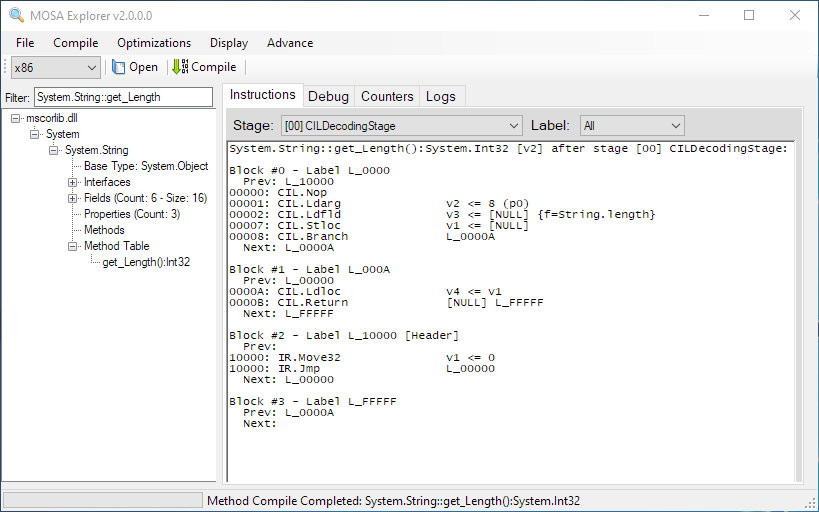
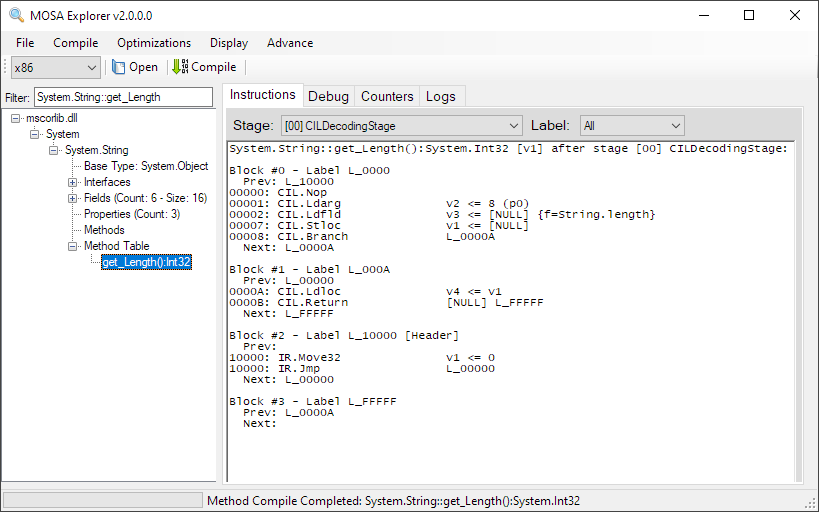
- Updated Docs

diff --git a/docs/searchindex.js b/docs/searchindex.js
@@ -1,1 +1,1 @@
-Search.setIndex({docnames:["authors","command-line-arguments","compiler-design","compiler-optimizations","faq","get-involved","getting-started","index","introduction","license","settings-options","tool-boot-image","tool-compiler","tool-debugger","tool-explorer","tool-launcher","tool-launcher-console","tools","unit-tests","usb-flash-drive-installation"],envversion:{"sphinx.domains.c":1,"sphinx.domains.changeset":1,"sphinx.domains.citation":1,"sphinx.domains.cpp":1,"sphinx.domains.index":1,"sphinx.domains.javascript":1,"sphinx.domains.math":2,"sphinx.domains.python":1,"sphinx.domains.rst":1,"sphinx.domains.std":1,"sphinx.ext.intersphinx":1,sphinx:56},filenames:["authors.rst","command-line-arguments.rst","compiler-design.rst","compiler-optimizations.rst","faq.rst","get-involved.rst","getting-started.rst","index.rst","introduction.rst","license.rst","settings-options.rst","tool-boot-image.rst","tool-compiler.rst","tool-debugger.rst","tool-explorer.rst","tool-launcher.rst","tool-launcher-console.rst","tools.rst","unit-tests.rst","usb-flash-drive-installation.rst"],objects:{},objnames:{},objtypes:{},terms:{"break":4,"byte":11,"case":[2,14],"catch":[7,8],"class":2,"default":[1,6,7,10],"final":[2,4,7,8,12],"function":11,"import":4,"long":[1,3],"new":[4,5,7,9,12],"null":16,"short":10,"static":[1,3,7,8,10],"true":[1,10],"try":[7,8],"while":[3,5,19],AND:9,ARE:9,BUT:9,FOR:9,For:1,NOT:9,One:2,SUCH:9,THE:9,The:[0,1,2,4,6,7,8,11,12,13,14,15,16,17,18],There:[2,5],These:[2,4,19],USE:9,Use:11,about:5,abov:9,accept:[5,9],access:5,achiev:5,add:0,addit:[3,14,15],address:10,advanc:1,advis:9,affect:3,after:[3,10],again:3,aggress:10,aggressivemaximum:10,aim:4,algorithm:4,all:[0,1,2,3,5,6,7,8,9,10,16,17,18,19],allianc:[4,9],alloc:[2,3,7,8],along:[4,17],also:[1,6,7,14],amount:10,ani:[4,5,6,7,9],anoth:[3,4,10],answer:4,anyon:4,appdata:16,appl:4,appli:3,applic:[2,4,7,8,11,12,13,14,15,16],apploc:10,appropri:2,apt:[6,7],area:5,argument:[3,14,15,16],aris:9,arm:[7,8],armv8a32:[1,10],around:2,asm:[1,4,10],asmfil:[1,10],assembl:4,assign:[3,7,8,10],autoexit:1,autolaunch:1,autom:[11,15,16],automat:[10,18],autostart:1,avail:[1,6,7,14,15,16],bare:[7,8],base:[1,3,4,5,7,8,10],baseaddress:[1,10],basic:[1,3,4,10],bat:[6,7,18],becaus:3,been:11,befor:[2,19],below:[1,6,7,19],between:2,bin:[1,10,11,12,16],binari:[1,2,4,6,7,9,10,12],bio:[1,10],bit:[1,3,7,8,10],bittrack:[1,10],block:[1,3,7,8,11,19],boch:[1,10],bodi:3,boot:[1,6,7,17,19],bootabl:11,bootblockfil:1,bootimag:19,bootload:[1,10],both:4,branch:3,breakpoint:[1,10],breakpointfil:[1,10],bring:[6,7],bsd:[4,5,7,9,12],bug:5,build:[2,4,11,15,16,19],busi:9,button:[6,7],c32:11,call:[3,10],can:[2,3,5,6,7,10,11,14,15,19],care:[5,19],categori:2,caus:[3,9],certain:14,cfg:11,chain:11,chang:19,channel:[4,5],chat:[5,7],cil:[2,4],click:[6,7],clone:[6,7],code:[0,1,2,3,5,6,7,8,9,10],codemaid:[6,7],com:[6,7],come:4,command:[6,7,11,19],common:[1,2,4,7,8,14,15,16],commun:[5,6,7],comparison:4,compat:[5,9],compil:[1,4,6,7,8,13,14,15,16,17],compilerdebug:[1,10],compilertimefil:1,compiletimefil:10,complet:[12,16,19],compon:[3,17],comput:3,condit:[3,7,8,9,10],connect:[1,5,7,19],consequenti:9,consist:[7,8],consol:[12,15],constant:[3,7,8,10],contain:11,contract:9,contribut:[0,4,9],contributor:[0,6,7,9],control:4,convers:[3,4],coolworld:[6,7],copi:19,copyright:[9,12],core:17,corelib:10,corlib:1,corrupt:19,cpu:16,creat:[2,4,6,7,10,11,19],createbootimag:11,credit:0,cross:[7,8],current:16,custom:10,customsect:10,damag:9,data:[9,19],dead:[3,7,8],debug:[1,13],debugfil:[1,10],debugg:[1,4,7,8,17],decod:2,defaultfold:10,definit:3,deleg:[7,8],demo:[6,7,11,16],depend:[4,19],deploi:19,depth:[1,10],deriv:9,describ:14,descript:[10,11,17],design:4,dest:1,destin:[1,10,11],determin:[3,19],devel:[6,7],develop:[4,5,7,8,17,19],devic:[7,8,19],devirtu:[1,10],direct:9,directli:[2,4],directori:[6,7,10,16,19],disassembl:10,disclaim:9,disconnect:19,disk:[6,7,11,19],diskblock:1,displai:[1,10,18],distribut:9,document:[5,9],doe:[3,19],done:19,doubl:[6,7],download:[5,19],drawf:[1,10],driver:[7,8],dure:[2,4,10],dwarf:10,each:[2,10,14],earli:[7,8],ecma:4,edit:[6,7],effort:[0,4],either:5,elaps:18,elf32:10,elf64:10,elf:10,elimin:[3,7,8],emit:[1,2,10],emitinlin:10,emul:[1,6,7,11,13],enabl:[3,10,16],endors:9,entir:[4,11,15,16],environ:5,equival:3,eras:19,evalu:3,even:9,event:9,everyon:0,exampl:[1,7,8,11],except:[5,7,8],exclud:10,exe:[11,12,14,15,16,19],execut:[2,3,7,8,10,14,15,18,19],exemplari:9,exit:[1,10],expans:[1,3,7,8],expens:3,experiment:10,explicit:[1,10],explicitli:10,explicitonli:[1,10],explor:[1,17],express:[2,3,9],extens:[1,6,7,10],fail:18,failur:[10,18],fall:3,fals:1,faster:2,fat12:[10,11],fat16:[10,11],fat32:[10,11],featur:[6,7],few:18,file:[0,2,10,12],filenam:[10,11],filesystem:[10,11],filter:[1,10],find:[3,19],first:[4,11],fit:9,fix:5,flexibl:4,fold:[3,7,8,10],folder:[1,10,19],follow:[1,6,7,8,9,11,18,19],form:[3,9,10],format:[1,10],forward:2,foster:4,found:19,framework:[2,4,7,8],free:[6,7],from:[2,5,9,14,15],fulli:[6,7],further:3,gather:10,gdb:1,gener:[2,7,8,10,16],get:19,git:[6,7],github:[6,7],gitter:[5,7],global:[3,7,8],gnu:[5,9,10],goal:5,good:9,graphic:16,greedi:[3,7,8],groundwork:4,group:2,grub0:[1,10],grub2:[1,10],grub:1,gui:[13,14,15],handl:[7,8,10],hard:19,harddiskx:19,hardwar:[7,8,19],has:[4,11],hash:[1,10],have:[0,3,4,5],hda:16,heard:5,height:[1,10],helloworld:[1,11,12,14,15],help:5,here:[10,14,15,16],high:[2,7,8],higher:2,highest:14,holder:9,host:[1,10],howev:9,http:[6,7],hunt:1,huntforcorlib:[1,10],hypervisor:[7,8],i386:16,ildasm:5,imag:[1,6,7,16,17,19],imagefil:[1,10],img:[1,10,11,16,19],immedi:[3,10],implement:[4,5],impli:9,improv:3,incident:9,includ:[4,6,7,8,9,10,11,15,16],incompar:5,inde:19,independ:4,indirect:9,inform:[1,10],inlin:[1,3,7,8,10],inlinedfil:[1,10],input:12,inspect:5,instal:[4,6,7],instanc:[6,7],instruct:[2,3,10,14,19],integr:4,intel:[7,8],intend:2,interact:[5,7],interest:[4,5],interfac:[4,16],interrupt:[1,9,10],interruptmethodnam:[1,10],introduc:4,invari:[1,7,8,10],invok:12,irc:[4,5],iso:[1,10],issu:5,its:[4,9,17],itself:[3,5],join:5,jump:3,just:19,keep:4,kei:19,kernel:[6,7,8],known:3,korlib:1,label:[1,11],languag:2,laptop:19,last:18,launch:[1,4,6,7,10,14,15,16],launchdebugg:[1,10],launcher:[1,6,7,11,17,19],launchgdb:10,ldlinux:11,least:2,less:3,level:[1,2,10,14],liabil:9,liabl:9,licens:[4,5,12],like:10,limit:9,line:[11,18],linear:2,link:[2,10,12,16,17],linker:[1,4],linux:4,list:[0,4,7,8,9,10,14,15,16,19],live:3,loader:[1,6,7],local:16,locat:3,log:14,longexpans:[1,10],look:5,loop:[1,7,8,10],loopinvariantcodemot:[1,10],loss:9,lost:19,lot:4,lower:2,lowest:14,machin:[2,6,7,10,13,15,16],made:14,mai:[1,3,9,10,19],mail:4,main:11,make:5,manag:[4,5,6,7,9],map:[1,10],mapfil:[1,10],mark:10,master:11,masterbootrecordfil:1,materi:9,maxim:3,maximum:[1,10],maximun:10,maxthread:10,mboot:11,mbr:[1,11],mean:5,memori:[1,10],merchant:9,messag:10,met:9,metal:[7,8],method:[1,3,10,12,14,16],methodscann:[1,10],microsoft:4,mind:4,minimum:[6,7],minut:18,mir:2,mistyp:19,mit:[5,9],mkisof:10,modern:18,modif:9,modifi:2,modular:[7,8],monitor:10,mono:[6,7],more:[2,3,5],mosa:[0,1,2,5,6,7,8,9,10,19],mosaboot:11,most:[5,7,14,15,16,19],motion:[1,7,8,10],move:2,multiboot:1,multipl:2,multithread:[1,7,8,10],must:9,name:[0,9,10,11],nasm:[1,4,10],nasmfil:[1,10],nativ:[3,7,8],ndisasm:10,nearli:[7,8],necessari:2,need:[5,6,7],neglig:9,neither:9,net:[2,7,8,12],netwid:4,newer:[6,7],next:[1,6,7],non:[7,8],none:[1,10],nor:9,note:[6,7,9],notic:9,now:19,number:[1,3,7,8,10,11,18],object:[2,7,8,10,12],ofast:1,off:1,omax:[1,16],onc:[2,4,15],one:[2,3,5,19],onli:[3,5,10],onon:1,onto:[3,19],opcod:2,open:[5,7,8,19],oper:[3,4,5,6,7,8,9,11,17],opportun:3,optim:[1,2,7,8,16],option:[1,3,7,8,11],order:4,organizaz:3,orient:[7,8],osiz:1,osx:4,other:[3,5,9,19],otherwis:[9,10],our:[0,4,5],out:9,output:[1,10,12],outputfil:[1,10],own:4,owner:9,packag:[6,7],page:17,paramet:[7,8,19],pars:12,part:4,particular:9,partit:[10,11],partitionx:19,pass:[1,3,18],patch:11,patent:5,path:[1,19],perform:3,permiss:9,permit:9,phil:16,physic:2,pipe:[1,10],pipenam:10,place:3,plan:5,platform:[1,2,3,7,8,10,12],pleas:[0,5],plug:[1,10],pluggabl:4,plugin:4,plugkorlib:[1,10],point:4,polici:5,port:[1,10],portabl:4,possibl:[3,9],postlinkhashfil:[1,10],potenti:5,pre:[6,7],prebuilt:10,prelinkhashfil:[1,10],preserv:3,previou:19,primari:[2,10],prior:[9,10],proce:19,process:[3,4,10,15,16],procur:9,product:9,profit:9,program:3,progress:[2,19],project:[0,5,6,7,8,9,12,16,17],promot:9,prompt:19,propag:[3,7,8,10],proprietari:5,provid:[2,4,5,7,8,9,17],publish:4,pull:0,purpos:9,qemu32:16,qemu:[1,6,7,8,10,11,13,16],qemubio:10,qemuimg:10,qualiti:[7,8],quick:[16,17],quickli:[6,7],rang:3,rather:3,raw:11,read:5,real:19,recogn:[0,3],recommend:[6,7],record:11,redistribut:9,reduct:[3,7,8,10],reflector:5,regard:5,regist:[2,3,7,8],relat:5,reloc:[1,10],remov:3,renam:11,reorder:[3,7,8],replac:[2,3],report:5,repositori:[0,6,7],repres:2,reproduc:9,request:0,requir:4,research:4,reserv:9,respresent:14,restrict:5,result:[3,18],retain:9,right:9,root:[6,7],run:4,runallunittestswithpaus:18,runtim:[3,5],same:3,sampl:[6,7],scanner:[1,10],sccp:[1,10],screen:18,screenshot:[6,7],script:[6,7,18],search:10,searchpath:[1,10],sec:[16,18],second:4,section:10,sectionnam:10,see:[14,15,16],seek:[7,8],select:[6,7,15,19],semant:3,seper:4,sequenc:2,serial:[1,10,16],serv:1,server:11,servic:9,set:[1,6,7,11,17],setup:12,sever:[2,11],shall:9,share:4,sharpo:4,shortcut:[1,3],shortsymbolnam:10,show:[10,18],signific:4,similar:[5,18],simplifi:3,simultan:3,singl:[2,3,7,8,10],site:3,skip:18,slightli:19,small:[7,8,10],softwar:[7,8,9,19],some:[2,5,10,14],sourc:[0,2,5,6,7,8,9,10],sourcefil:[1,10],spars:[3,7,8,10],special:9,specif:[1,2,4,9,10,14],specifi:[1,10],spill:3,ssa:[1,3,7,8,10],sse4:16,stabl:[7,8],stack:3,stage:[2,3,10,14],standard:4,start:[1,5,10,12,16],state:3,staticreloc:[1,10],statist:10,step:[2,19],storag:19,store:3,stream:[2,14],strength:[3,7,8,10],strict:9,strongli:[6,7],studio:[4,6,7],sub:19,subdirectori:18,subexpess:[7,8],submit:[0,9],substitut:[9,19],success:10,successfulli:18,sudo:[6,7],superced:11,support:[5,6,7,8,11],symbol:[1,10],sys:11,syslinux3:[1,10],syslinux6:[1,10],syslinux:[1,11],syslinux_v3:1,system:[2,4,5,6,7,8,9,10,11,16,17,19],take:[5,18],target:[2,7,8],tcpclient:[1,10],tcpserver:[1,10],team:[0,5,7],techniqu:3,temp:[16,19],temporari:10,temporaryfold:10,test:[10,19],testworld:16,tgiphil:16,than:3,them:3,theori:9,thi:[2,3,4,5,7,9,10,11,15,16,17],though:[4,5],thread:[1,10],through:3,thru:3,thu:3,time:[1,3,10,18],todo:[12,13],too:19,tool:[1,5,6,7,10,12,14,15,16,19],toolkit:4,toolset:4,tort:9,total:18,trace:10,tracelevel:10,track:3,tracker:[1,3,10],transform:[2,3,10,14],tree:2,twice:10,two:[1,2,3,4],twopass:[1,10],txt:0,type:[2,4,10,11,19],under:[7,9,12,19],understand:19,unix:11,unless:19,unlock:3,until:19,upon:10,usabl:4,use:[2,6,7,9],used:[1,2,9,10,11,12,13,14,15],user:16,uses:[2,4],using:[1,6,7,8,10,13,16,19],usual:[2,19],util:19,valu:[1,3,7,8,10],valuenumb:[1,10],vari:19,variou:[2,3,10,15],vbe:[1,10],vdi:[1,10,11],veri:4,version:[1,6,7,10,12,15,16],vga:10,vhd:[1,10,11],via:[6,7,12],video:[1,10],view:[0,14],virtual:[2,3,6,7,8,10,11,13,15,16,19],virtualbox:11,visual:[4,6,7,14],vmdk:[1,10,11],vmplayer:10,vmware:[1,10,11],vmwareplay:10,volum:[1,11],volumelabel:1,vritual:10,wai:[4,5,7,9],wait:19,want:[0,5],warranti:9,watch:[1,4,10],watchfil:[1,10],weight:3,were:[10,14],when:[3,10],where:3,whether:9,which:[3,4,5,6,7,11],why:14,width:[1,10],window:[4,19],wish:19,within:[7,8,10],without:[3,9],written:[9,19],wrong:19,x11:9,x64:[1,7,8,10],x86:[1,6,7,8,11,12,14,15,16],you:[0,4,5,6,7,19],your:[0,4,5,19],yourself:5,zip:[6,7]},titles:["Authors","Command Line Arguments","Compiler Design","Compiler Optimizations","Frequently Asked Questions (FAQs)","Get Involved","Getting Started","Introduction","Introduction","License","Settings Options","MOSA Boot Image Tool","MOSA Compiler","MOSA Debugger","MOSA Explorer","MOSA Launcher","MOSA Launcher Console","MOSA Tools","Unit Tests","USB Flash Drive Installation"],titleterms:{"import":10,Are:4,applic:10,argument:[1,11],ask:4,author:0,avail:4,boot:11,can:4,command:[1,12,13,14,15,16],common:10,compil:[2,3,10,12],consol:16,contribut:5,cosmo:4,current:[7,8],debug:10,debugg:[10,13],design:2,differ:4,discuss:7,doe:4,download:[6,7],drive:19,emul:10,exampl:16,explor:[10,14],faq:4,file:11,flash:19,format:11,frequent:4,gdb:10,get:[5,6,7],how:4,imag:[10,11],instal:19,intermedi:2,introduct:[7,8],involv:5,job:5,join:[4,7],kind:4,launcher:[10,15,16],licens:[7,9],line:[1,12,13,14,15,16],linker:10,linux:[6,7],locat:10,mac:[6,7],method:2,mosa:[4,11,12,13,14,15,16,17],multiboot:10,net:4,optim:[3,10],option:[10,12,13,14,15,16],pipelin:2,prerequisit:[6,7],process:5,project:4,question:4,represent:2,rule:5,run:[6,7],runtim:4,set:10,stand:4,start:[6,7],statu:[7,8],test:18,than:4,togeth:4,tool:[11,17],unit:18,usb:19,what:4,who:4,window:[6,7],work:4,x86:10}})
+Search.setIndex({docnames:["authors","command-line-arguments","compiler-design","compiler-optimizations","faq","get-involved","getting-started","index","introduction","license","settings-options","tool-boot-image","tool-compiler","tool-debugger","tool-explorer","tool-launcher","tool-launcher-console","tools","unit-tests","usb-flash-drive-installation"],envversion:{"sphinx.domains.c":1,"sphinx.domains.changeset":1,"sphinx.domains.citation":1,"sphinx.domains.cpp":1,"sphinx.domains.index":1,"sphinx.domains.javascript":1,"sphinx.domains.math":2,"sphinx.domains.python":1,"sphinx.domains.rst":1,"sphinx.domains.std":1,"sphinx.ext.intersphinx":1,sphinx:56},filenames:["authors.rst","command-line-arguments.rst","compiler-design.rst","compiler-optimizations.rst","faq.rst","get-involved.rst","getting-started.rst","index.rst","introduction.rst","license.rst","settings-options.rst","tool-boot-image.rst","tool-compiler.rst","tool-debugger.rst","tool-explorer.rst","tool-launcher.rst","tool-launcher-console.rst","tools.rst","unit-tests.rst","usb-flash-drive-installation.rst"],objects:{},objnames:{},objtypes:{},terms:{"break":4,"byte":11,"case":[2,14],"catch":[7,8],"class":2,"default":[1,6,7,10,14],"final":[2,4,7,8,12],"function":11,"import":4,"long":[1,3],"new":[4,5,7,9,12],"null":16,"short":10,"static":[1,3,7,8,10],"true":[1,10],"try":[7,8],"while":[3,5,19],AND:9,ARE:9,BUT:9,FOR:9,For:1,NOT:9,One:2,SUCH:9,THE:9,The:[0,1,2,4,6,7,8,11,12,13,14,15,16,17,18],There:[2,5],These:[2,4,19],USE:9,Use:11,about:5,abov:9,accept:[5,9],access:5,achiev:5,add:0,addit:[3,13,14,15],address:10,advanc:1,advis:9,affect:3,after:[3,10],again:3,aggress:10,aggressivemaximum:10,aim:4,algorithm:4,all:[0,1,2,3,5,6,7,8,9,10,16,17,18,19],allianc:[4,9],alloc:[2,3,7,8],along:[4,17],also:[1,6,7,14],amount:10,ani:[4,5,6,7,9],anoth:[3,4,10],answer:4,anyon:4,appdata:16,appl:4,appli:3,applic:[2,4,7,8,11,12,13,14,15,16],apploc:10,appropri:2,apt:[6,7],area:5,argument:[3,12,13,14,15,16],aris:9,arm:[7,8],armv8a32:[1,10],around:2,asm:[1,4,10],asmfil:[1,10],assembl:4,assign:[3,7,8,10],autoexit:1,autolaunch:1,autom:[11,15,16],automat:[10,18],autostart:[1,15,16],avail:[1,6,7,12,13,14,15,16],bare:[7,8],base:[1,3,4,5,7,8,10],baseaddress:[1,10],basic:[1,3,4,10],bat:[6,7,18],becaus:3,been:11,befor:[2,19],below:[1,6,7,19],between:2,bin:[1,10,11,12,16],binari:[1,2,4,6,7,9,10,12],bio:[1,10],bit:[1,3,7,8,10],bittrack:[1,10],block:[1,3,7,8,11,19],boch:[1,10],bodi:3,boot:[1,6,7,17,19],bootabl:11,bootblockfil:1,bootimag:19,bootload:[1,10],both:4,branch:3,breakpoint:[1,10],breakpointfil:[1,10],bring:[6,7],bsd:[4,5,7,9,12],bug:5,build:[2,4,11,15,16,19],busi:9,button:[6,7],c32:11,call:[3,10],can:[2,3,5,6,7,10,11,13,14,15,19],care:[5,19],categori:2,caus:[3,9],certain:14,cfg:11,chain:11,chang:19,channel:[4,5],chat:[5,7],cil:[2,4],click:[6,7],clone:[6,7],code:[0,1,2,3,5,6,7,8,9,10],codemaid:[6,7],com:[6,7],come:4,command:[6,7,11,19],common:[1,2,4,7,8,14,15,16],commun:[5,6,7],comparison:4,compat:[5,9],compil:[1,4,6,7,8,13,14,15,16,17],compilerdebug:[1,10],compilertimefil:1,compiletimefil:10,complet:[12,16,19],compon:[3,17],comput:3,condit:[3,7,8,9,10],connect:[1,5,7,19],consequenti:9,consist:[7,8],consol:[12,15],constant:[3,7,8,10],contain:11,contract:9,contribut:[0,4,9],contributor:[0,6,7,9],control:4,convers:[3,4],coolworld:[6,7],copi:19,copyright:[9,12],core:17,corelib:10,corlib:1,corrupt:19,cpu:16,creat:[2,4,6,7,10,11,19],createbootimag:11,credit:0,cross:[7,8],current:16,custom:10,customsect:10,damag:9,data:[9,19],dead:[3,7,8],debug:[1,13],debugfil:[1,10],debugg:[1,4,7,8,17],decod:2,defaultfold:10,definit:3,deleg:[7,8],demo:[6,7,11,16],depend:[4,19],deploi:19,depth:[1,10],deriv:9,describ:14,descript:[10,11,17],design:4,dest:1,destin:[1,10,11],determin:[3,19],devel:[6,7],develop:[4,5,7,8,17,19],devic:[7,8,19],devirtu:[1,10],direct:9,directli:[2,4],directori:[6,7,10,16,19],disassembl:10,disclaim:9,disconnect:19,disk:[6,7,11,19],diskblock:1,displai:[1,10,18],distribut:9,document:[5,9],doe:[3,15,16,19],done:19,doubl:[6,7],download:[5,19],drawf:[1,10],driver:[7,8],dure:[2,4,10],dwarf:10,each:[2,10,14],earli:[7,8],ecma:4,edit:[6,7],effort:[0,4],either:5,elaps:18,elf32:10,elf64:10,elf:10,elimin:[3,7,8],emit:[1,2,10],emitinlin:10,emul:[1,6,7,11,13],enabl:[3,10,16],endors:9,entir:[4,11,15,16],environ:5,equival:3,eras:19,evalu:3,even:9,event:9,everyon:0,exampl:[1,7,8,11],except:[5,7,8],exclud:10,exe:[11,12,13,14,15,16,19],execut:[2,3,7,8,10,13,14,15,18,19],exemplari:9,exit:[1,10],expans:[1,3,7,8],expens:3,experiment:10,explicit:[1,10],explicitli:10,explicitonli:[1,10],explor:[1,17],express:[2,3,9],extens:[1,6,7,10],fail:18,failur:[10,18],fall:3,fals:1,faster:2,fat12:[10,11],fat16:[10,11],fat32:[10,11],featur:[6,7],few:18,file:[0,2,10,12],filenam:[10,11],filesystem:[10,11],filter:[1,10,14],find:[3,19],first:[4,11],fit:9,fix:5,flexibl:4,fold:[3,7,8,10],folder:[1,10,19],follow:[1,6,7,8,9,11,18,19],form:[3,9,10],format:[1,10],forward:2,foster:4,found:19,framework:[2,4,7,8],free:[6,7],from:[2,5,9,13,14,15],fulli:[6,7],further:3,gather:10,gdb:1,gener:[2,7,8,10,16],get:19,get_length:14,git:[6,7],github:[6,7],gitter:[5,7],global:[3,7,8],gnu:[5,9,10],goal:5,good:9,graphic:16,greedi:[3,7,8],groundwork:4,group:2,grub0:[1,10],grub2:[1,10],grub:1,gui:[13,14,15],handl:[7,8,10],hard:19,harddiskx:19,hardwar:[7,8,19],has:[4,11],hash:[1,10],have:[0,3,4,5],hda:16,heard:5,height:[1,10],helloworld:[1,11,12,14,15],help:5,here:[10,14,15,16],high:[2,7,8],higher:2,highest:14,holder:9,host:[1,10],howev:9,http:[6,7],hunt:1,huntforcorlib:[1,10],hypervisor:[7,8],i386:16,ildasm:5,imag:[1,6,7,16,17,19],imagefil:[1,10],img:[1,10,11,16,19],immedi:[3,10,15,16],implement:[4,5],impli:9,improv:3,incident:9,includ:[4,6,7,8,9,10,11,15,16],incompar:5,inde:19,independ:4,indirect:9,inform:[1,10],inlin:[1,3,7,8,10],inlinedfil:[1,10],input:12,inspect:5,instal:[4,6,7],instanc:[6,7],instruct:[2,3,10,14,19],integr:4,intel:[7,8],intend:2,interact:[5,7],interest:[4,5],interfac:[4,16],interrupt:[1,9,10],interruptmethodnam:[1,10],introduc:4,invari:[1,7,8,10],invok:12,irc:[4,5],iso:[1,10],issu:5,its:[4,9,17],itself:[3,5],join:5,jump:3,just:19,keep:4,kei:19,kernel:[6,7,8],known:3,korlib:1,label:[1,11],languag:2,laptop:19,last:18,launch:[1,4,6,7,10,13,14,15,16],launchdebugg:[1,10],launcher:[1,6,7,11,13,17,19],launchgdb:10,ldlinux:11,least:2,less:3,level:[1,2,10,14],liabil:9,liabl:9,licens:[4,5,12],like:10,limit:9,line:[11,18],linear:2,link:[2,10,12,16,17],linker:[1,4],linux:4,list:[0,4,7,8,9,10,12,13,14,15,16,19],live:3,loader:[1,6,7],local:16,locat:3,log:14,longexpans:[1,10],look:5,loop:[1,7,8,10],loopinvariantcodemot:[1,10],loss:9,lost:19,lot:4,lower:2,lowest:14,machin:[2,6,7,10,13,15,16],made:14,mai:[1,3,9,10,19],mail:4,main:11,make:5,manag:[4,5,6,7,9],map:[1,10],mapfil:[1,10],mark:10,master:11,masterbootrecordfil:1,materi:9,maxim:3,maximum:[1,10],maximun:10,maxthread:10,mboot:11,mbr:[1,11],mean:5,memori:[1,10],merchant:9,messag:10,met:9,metal:[7,8],method:[1,3,10,12,14,16],methodscann:[1,10],microsoft:4,mind:4,minimum:[6,7],minut:18,mir:2,mistyp:19,mit:[5,9],mkisof:10,modern:18,modif:9,modifi:2,modular:[7,8],monitor:10,mono:[6,7],more:[2,3,5],mosa:[0,1,2,5,6,7,8,9,10,19],mosaboot:11,most:[5,7,14,15,16,19],motion:[1,7,8,10],move:2,multiboot:1,multipl:2,multithread:[1,7,8,10],must:9,name:[0,9,10,11,14],nasm:[1,4,10],nasmfil:[1,10],nativ:[3,7,8],ndisasm:10,nearli:[7,8],necessari:2,need:[5,6,7],neglig:9,neither:9,net:[2,7,8,12],netwid:4,newer:[6,7],next:[1,6,7],non:[7,8],none:[1,10],nor:9,note:[6,7,9],notic:9,now:19,number:[1,3,7,8,10,11,18],object:[2,7,8,10,12],ofast:1,off:[1,15,16],omax:[1,16],onc:[2,4,15],one:[2,3,5,19],onli:[3,5,10],onon:1,onto:[3,19],opcod:2,open:[5,7,8,19],oper:[3,4,5,6,7,8,9,11,17],opportun:3,optim:[1,2,7,8,16],option:[1,3,7,8,11],order:4,organizaz:3,orient:[7,8],osiz:1,osx:4,other:[3,5,9,19],otherwis:[9,10],our:[0,4,5],out:9,output:[1,10,12],outputfil:[1,10],own:4,owner:9,packag:[6,7],page:17,paramet:[7,8,19],pars:12,part:4,particular:9,partit:[10,11],partitionx:19,pass:[1,3,18],patch:11,patent:5,path:[1,19],perform:3,permiss:9,permit:9,phil:16,physic:2,pipe:[1,10],pipenam:10,place:3,plan:5,platform:[1,2,3,7,8,10,12],pleas:[0,5],plug:[1,10],pluggabl:4,plugin:4,plugkorlib:[1,10],point:4,polici:5,port:[1,10],portabl:4,possibl:[3,9],postlinkhashfil:[1,10],potenti:5,pre:[6,7],prebuilt:10,prelinkhashfil:[1,10],preserv:3,previou:19,primari:[2,10],prior:[9,10],proce:19,process:[3,4,10,15,16],procur:9,product:9,profit:9,program:3,progress:[2,19],project:[0,5,6,7,8,9,12,16,17],promot:9,prompt:19,propag:[3,7,8,10],proprietari:5,provid:[2,4,5,7,8,9,17],publish:4,pull:0,purpos:9,qemu32:16,qemu:[1,6,7,8,10,11,13,16],qemubio:10,qemuimg:10,qualiti:[7,8],quick:[16,17],quickli:[6,7],rang:3,rather:3,raw:11,read:5,real:19,recogn:[0,3],recommend:[6,7],record:11,redistribut:9,reduct:[3,7,8,10],reflector:5,regard:5,regist:[2,3,7,8],relat:5,reloc:[1,10],remov:3,renam:11,reorder:[3,7,8],replac:[2,3],report:5,repositori:[0,6,7],repres:2,reproduc:9,request:0,requir:4,research:4,reserv:9,respresent:14,restrict:5,result:[3,18],retain:9,right:9,root:[6,7],run:4,runallunittestswithpaus:18,runtim:[3,5],same:3,sampl:[6,7],scanner:[1,10],sccp:[1,10],screen:18,screenshot:[6,7],script:[6,7,18],search:10,searchpath:[1,10],sec:[16,18],second:4,section:10,sectionnam:10,see:[12,13,14,15,16],seek:[7,8],select:[6,7,15,19],semant:3,seper:4,sequenc:2,serial:[1,10,16],serv:1,server:11,servic:9,set:[1,6,7,11,17],setup:12,sever:[2,11],shall:9,share:4,sharpo:4,shortcut:[1,3],shortsymbolnam:10,show:[10,18],signific:4,similar:[5,18],simplifi:3,simultan:3,singl:[2,3,7,8,10],site:3,skip:18,slightli:19,small:[7,8,10],softwar:[7,8,9,19],some:[2,5,10,14],sourc:[0,2,5,6,7,8,9,10],sourcefil:[1,10],spars:[3,7,8,10],special:9,specif:[1,2,4,9,10,14],specifi:[1,10,14],spill:3,ssa:[1,3,7,8,10],sse4:16,stabl:[7,8],stack:3,stage:[2,3,10,14],standard:4,start:[1,5,10,12,15,16],state:3,staticreloc:[1,10],statist:10,step:[2,19],storag:19,store:3,stream:[2,14],strength:[3,7,8,10],strict:9,string:14,strongli:[6,7],studio:[4,6,7],sub:19,subdirectori:18,subexpess:[7,8],submit:[0,9],substitut:[9,19],success:10,successfulli:18,sudo:[6,7],superced:11,support:[5,6,7,8,11],symbol:[1,10],sys:11,syslinux3:[1,10],syslinux6:[1,10],syslinux:[1,11],syslinux_v3:1,system:[2,4,5,6,7,8,9,10,11,14,16,17,19],take:[5,18],target:[2,7,8],tcpclient:[1,10],tcpserver:[1,10],team:[0,5,7],techniqu:3,temp:[16,19],temporari:10,temporaryfold:10,test:[10,19],testworld:16,tgiphil:16,than:3,them:3,theori:9,thi:[2,3,4,5,7,9,10,11,15,16,17],though:[4,5],thread:[1,10],through:3,thru:3,thu:3,time:[1,3,10,18],too:19,tool:[1,5,6,7,10,12,13,14,15,16,19],toolkit:4,toolset:4,tort:9,total:18,trace:10,tracelevel:10,track:3,tracker:[1,3,10],transform:[2,3,10,14],tree:2,twice:10,two:[1,2,3,4],twopass:[1,10],txt:0,type:[2,4,10,11,19],under:[7,9,12,19],understand:19,unix:11,unless:19,unlock:3,until:19,upon:10,usabl:4,use:[2,6,7,9],used:[1,2,9,10,11,12,13,14,15],user:16,uses:[2,4],using:[1,6,7,8,10,13,16,19],usual:[2,19],util:19,valu:[1,3,7,8,10],valuenumb:[1,10],vari:19,variou:[2,3,10,15],vbe:[1,10],vdi:[1,10,11],veri:4,version:[1,6,7,10,12,15,16],vga:10,vhd:[1,10,11],via:[6,7,12],video:[1,10],view:[0,14],virtual:[2,3,6,7,8,10,11,13,15,16,19],virtualbox:11,visual:[4,6,7,14],vmdk:[1,10,11],vmplayer:10,vmware:[1,10,11],vmwareplay:10,volum:[1,11],volumelabel:1,vritual:10,wai:[4,5,7,9],wait:19,want:[0,5],warranti:9,watch:[1,4,10],watchfil:[1,10],weight:3,were:[10,14],when:[3,10,14],where:3,whether:9,which:[3,4,5,6,7,11],why:14,width:[1,10],window:[4,19],wish:19,within:[7,8,10],without:[3,9],written:[9,19],wrong:19,x11:9,x64:[1,7,8,10],x86:[1,6,7,8,11,12,13,14,15,16],you:[0,4,5,6,7,19],your:[0,4,5,19],yourself:5,zip:[6,7]},titles:["Authors","Command Line Arguments","Compiler Design","Compiler Optimizations","Frequently Asked Questions (FAQs)","Get Involved","Getting Started","Introduction","Introduction","License","Settings Options","MOSA Boot Image Tool","MOSA Compiler","MOSA Debugger","MOSA Explorer","MOSA Launcher","MOSA Launcher Console","MOSA Tools","Unit Tests","USB Flash Drive Installation"],titleterms:{"import":10,Are:4,applic:10,argument:[1,11],ask:4,author:0,avail:4,boot:11,can:4,command:[1,12,13,14,15,16],common:10,compil:[2,3,10,12],consol:16,contribut:5,cosmo:4,current:[7,8],debug:10,debugg:[10,13],design:2,differ:4,discuss:7,doe:4,download:[6,7],drive:19,emul:10,exampl:16,explor:[10,14],faq:4,file:11,flash:19,format:11,frequent:4,gdb:10,get:[5,6,7],how:4,imag:[10,11],instal:19,intermedi:2,introduct:[7,8],involv:5,job:5,join:[4,7],kind:4,launcher:[10,15,16],licens:[7,9],line:[1,12,13,14,15,16],linker:10,linux:[6,7],locat:10,mac:[6,7],method:2,mosa:[4,11,12,13,14,15,16,17],multiboot:10,net:4,optim:[3,10],option:[10,12,13,14,15,16],pipelin:2,prerequisit:[6,7],process:5,project:4,question:4,represent:2,rule:5,run:[6,7],runtim:4,set:10,stand:4,start:[6,7],statu:[7,8],test:18,than:4,togeth:4,tool:[11,17],unit:18,usb:19,what:4,who:4,window:[6,7],work:4,x86:10}})

diff --git a/docs/tool-launcher.html b/docs/tool-launcher.html
@@ -189,6 +189,7 @@
   <div class="section" id="mosa-launcher">
 <h1>MOSA Launcher<a class="headerlink" href="#mosa-launcher" title="Permalink to this headline">¶</a></h1>
 <p>The <strong>MOSA Launcher</strong> is GUI application used to select various compiler and build options. Once options are select, the tool automates the entire build process including launching of a virtual machine.</p>
+<img alt="_images/mosa-launcher.png" src="_images/mosa-launcher.png" />
 <div class="admonition tip">
 <p class="admonition-title">Tip</p>
 <p>See <a class="reference internal" href="tool-launcher-console.html"><span class="doc">MOSA Launch</span></a> for a console version of this application.</p>
@@ -200,7 +201,12 @@
 </div>
 <div class="section" id="command-line-options">
 <h2>Command Line Options<a class="headerlink" href="#command-line-options" title="Permalink to this headline">¶</a></h2>
-<p>See the <a class="reference internal" href="command-line-arguments.html"><span class="doc">command line arguments</span></a> for a list of available options. Here are the most common options available:</p>
+<p>See the <a class="reference internal" href="command-line-arguments.html"><span class="doc">command line arguments</span></a> for a list of available options.</p>
+<p>Here are the most common options available:</p>
+<dl class="simple">
+<dt><cite>-autostart-off</cite></dt><dd><p>Does not immediate start the compiler</p>
+</dd>
+</dl>
 </div>
 </div>
 

diff --git a/docs/tool-explorer.html b/docs/tool-explorer.html
@@ -192,12 +192,17 @@
 <img alt="_images/mosa-explorer.png" src="_images/mosa-explorer.png" />
 <p>The <strong>MOSA Explorer</strong> can be launched by executing <cite>Mosa.Tool.Explorer.exe</cite>.</p>
 <p>In addition, the tool can be launched from the command line with arguments:</p>
-<div class="highlight-text notranslate"><div class="highlight"><pre><span></span>Mosa.Tool.Explorer.exe Mosa.HelloWorld.x86.exe
+<div class="highlight-text notranslate"><div class="highlight"><pre><span></span>Mosa.Tool.Explorer.exe Mosa.HelloWorld.x86.exe -filter System.String::get_Length
 </pre></div>
 </div>
 <div class="section" id="command-line-options">
 <h2>Command Line Options<a class="headerlink" href="#command-line-options" title="Permalink to this headline">¶</a></h2>
-<p>See the <a class="reference internal" href="command-line-arguments.html"><span class="doc">command line arguments</span></a> for a list of available options. Here are the most common options available:</p>
+<p>See the <a class="reference internal" href="command-line-arguments.html"><span class="doc">command line arguments</span></a> for a list of available options.</p>
+<p>Here are the most common options available:</p>
+<dl class="simple">
+<dt><cite>-filter</cite></dt><dd><p>Specifies the default method filter name when Explorer is launched</p>
+</dd>
+</dl>
 </div>
 </div>
 

diff --git a/docs/tool-debugger.html b/docs/tool-debugger.html
@@ -189,9 +189,15 @@
   <div class="section" id="mosa-debugger">
 <h1>MOSA Debugger<a class="headerlink" href="#mosa-debugger" title="Permalink to this headline">¶</a></h1>
 <p>The <strong>MOSA Debugger</strong> is GUI application used to debug a MOSA compiled application using <a class="reference external" href="https://www.qemu.org">QEMU Virtual Machine Emulator</a>.</p>
+<img alt="_images/mosa-debugger.png" src="_images/mosa-debugger.png" />
+<p>The <strong>MOSA Debugger</strong> can be launched by executing <cite>Mosa.Tool.Debugger.exe</cite>.</p>
+<p>In addition, the tool can be launched from the command line with arguments:</p>
+<div class="highlight-text notranslate"><div class="highlight"><pre><span></span>Mosa.Tool.Launcher.exe Mosa.Debugger.x86.exe
+</pre></div>
+</div>
 <div class="section" id="command-line-options">
 <h2>Command Line Options<a class="headerlink" href="#command-line-options" title="Permalink to this headline">¶</a></h2>
-<p>[TODO]</p>
+<p>See the <a class="reference internal" href="command-line-arguments.html"><span class="doc">command line arguments</span></a> for a list of available options.</p>
 </div>
 </div>
 

diff --git a/docs/tool-launcher-console.html b/docs/tool-launcher-console.html
@@ -215,7 +215,12 @@ Arguments:  -L &quot;..\Tools\QEMU&quot; -cpu qemu32,+sse4.1 -serial null -hda &
 </div>
 <div class="section" id="command-line-options">
 <h2>Command Line Options<a class="headerlink" href="#command-line-options" title="Permalink to this headline">¶</a></h2>
-<p>See the <a class="reference internal" href="command-line-arguments.html"><span class="doc">command line arguments</span></a> for a list of available options. Here are the most common options available:</p>
+<p>See the <a class="reference internal" href="command-line-arguments.html"><span class="doc">command line arguments</span></a> for a list of available options.</p>
+<p>Here are the most common options available:</p>
+<dl class="simple">
+<dt><cite>-autostart-off</cite></dt><dd><p>Does not immediate start the compiler</p>
+</dd>
+</dl>
 </div>
 </div>
 

diff --git a/docs/tool-compiler.html b/docs/tool-compiler.html
@@ -219,7 +219,7 @@
 </div>
 <div class="section" id="command-line-options">
 <h2>Command Line Options<a class="headerlink" href="#command-line-options" title="Permalink to this headline">¶</a></h2>
-<p>[TODO]</p>
+<p>See the <a class="reference internal" href="command-line-arguments.html"><span class="doc">command line arguments</span></a> for a list of available options.</p>
 </div>
 </div>
 

diff --git a/Source/Mosa.Tool.Debugger/Views/SourceView.designer.cs b/Source/Mosa.Tool.Debugger/Views/SourceView.designer.cs
@@ -43,11 +43,10 @@ namespace Mosa.Tool.Debugger.Views
             | System.Windows.Forms.AnchorStyles.Left) 
             | System.Windows.Forms.AnchorStyles.Right)));
 			this.rtbSource.Font = new System.Drawing.Font("Consolas", 8.25F, System.Drawing.FontStyle.Regular, System.Drawing.GraphicsUnit.Point, ((byte)(0)));
-			this.rtbSource.Location = new System.Drawing.Point(-2, 67);
-			this.rtbSource.Margin = new System.Windows.Forms.Padding(8, 7, 8, 7);
+			this.rtbSource.Location = new System.Drawing.Point(-1, 30);
 			this.rtbSource.Name = "rtbSource";
 			this.rtbSource.ReadOnly = true;
-			this.rtbSource.Size = new System.Drawing.Size(1324, 432);
+			this.rtbSource.Size = new System.Drawing.Size(532, 235);
 			this.rtbSource.TabIndex = 0;
 			this.rtbSource.Text = "";
 			// 
@@ -55,20 +54,18 @@ namespace Mosa.Tool.Debugger.Views
 			// 
 			this.label1.AutoSize = true;
 			this.label1.Font = new System.Drawing.Font("Microsoft Sans Serif", 8.25F, System.Drawing.FontStyle.Bold, System.Drawing.GraphicsUnit.Point, ((byte)(0)));
-			this.label1.Location = new System.Drawing.Point(20, 20);
-			this.label1.Margin = new System.Windows.Forms.Padding(8, 0, 8, 0);
+			this.label1.Location = new System.Drawing.Point(8, 9);
 			this.label1.Name = "label1";
-			this.label1.Size = new System.Drawing.Size(107, 29);
+			this.label1.Size = new System.Drawing.Size(51, 13);
 			this.label1.TabIndex = 1;
 			this.label1.Text = "Source:";
 			// 
 			// lbSourceFilename
 			// 
 			this.lbSourceFilename.AutoSize = true;
-			this.lbSourceFilename.Location = new System.Drawing.Point(145, 20);
-			this.lbSourceFilename.Margin = new System.Windows.Forms.Padding(8, 0, 8, 0);
+			this.lbSourceFilename.Location = new System.Drawing.Point(58, 9);
 			this.lbSourceFilename.Name = "lbSourceFilename";
-			this.lbSourceFilename.Size = new System.Drawing.Size(171, 29);
+			this.lbSourceFilename.Size = new System.Drawing.Size(72, 13);
 			this.lbSourceFilename.TabIndex = 2;
 			this.lbSourceFilename.Text = "<Source File>";
 			// 
@@ -77,29 +74,27 @@ namespace Mosa.Tool.Debugger.Views
 			this.statusStrip1.ImageScalingSize = new System.Drawing.Size(36, 36);
 			this.statusStrip1.Items.AddRange(new System.Windows.Forms.ToolStripItem[] {
             this.toolStripStatusLabel1});
-			this.statusStrip1.Location = new System.Drawing.Point(0, 599);
+			this.statusStrip1.Location = new System.Drawing.Point(0, 268);
 			this.statusStrip1.Name = "statusStrip1";
-			this.statusStrip1.Padding = new System.Windows.Forms.Padding(2, 0, 35, 0);
-			this.statusStrip1.Size = new System.Drawing.Size(1332, 48);
+			this.statusStrip1.Size = new System.Drawing.Size(533, 22);
 			this.statusStrip1.TabIndex = 3;
 			this.statusStrip1.Text = "statusStrip1";
 			// 
 			// toolStripStatusLabel1
 			// 
 			this.toolStripStatusLabel1.Name = "toolStripStatusLabel1";
-			this.toolStripStatusLabel1.Size = new System.Drawing.Size(65, 37);
+			this.toolStripStatusLabel1.Size = new System.Drawing.Size(29, 17);
 			this.toolStripStatusLabel1.Text = "N/A";
 			// 
 			// SourceView
 			// 
-			this.AutoScaleDimensions = new System.Drawing.SizeF(15F, 29F);
+			this.AutoScaleDimensions = new System.Drawing.SizeF(6F, 13F);
 			this.AutoScaleMode = System.Windows.Forms.AutoScaleMode.Font;
-			this.ClientSize = new System.Drawing.Size(1332, 647);
+			this.ClientSize = new System.Drawing.Size(533, 290);
 			this.Controls.Add(this.statusStrip1);
 			this.Controls.Add(this.lbSourceFilename);
 			this.Controls.Add(this.label1);
 			this.Controls.Add(this.rtbSource);
-			this.Margin = new System.Windows.Forms.Padding(8, 7, 8, 7);
 			this.Name = "SourceView";
 			this.TabText = "Source";
 			this.Text = "Source";

diff --git a/Source/Mosa.Tool.Explorer/MainForm.cs b/Source/Mosa.Tool.Explorer/MainForm.cs
@@ -198,6 +198,15 @@ namespace Mosa.Tool.Explorer
 			Text = "MOSA Explorer v" + CompilerVersion.VersionString;
 
 			SetStatus("Ready!");
+
+			var sourcefiles = Settings.GetValueList("Compiler.SourceFiles");
+
+			if (sourcefiles != null && sourcefiles.Count >= 1)
+			{
+				UpdateSettings(Path.GetFullPath(sourcefiles[0]));
+
+				LoadAssembly();
+			}
 		}
 
 		private void OpenToolStripMenuItem_Click(object sender, EventArgs e)
@@ -980,15 +989,6 @@ namespace Mosa.Tool.Explorer
 			Settings.Merge(arguments);
 
 			UpdateDisplay();
-
-			var sourcefiles = Settings.GetValueList("Compiler.SourceFiles");
-
-			if (sourcefiles != null && sourcefiles.Count >= 1)
-			{
-				UpdateSettings(Path.GetFullPath(sourcefiles[0]));
-
-				LoadAssembly();
-			}
 		}
 
 		private void SetDefaultSettings()

diff --git a/Source/Docs/compiler-optimizations.rst b/Source/Docs/compiler-optimizations.rst
@@ -6,38 +6,37 @@ Optimizations
 -------------
 
 Constant Folding and Propagation
-  Constant folding is the process of recognizing and evaluating constant expressions at compile time rather than computing them at runtime.
+	Constant folding is the process of recognizing and evaluating constant expressions at compile time rather than computing them at runtime.
 
 Strength Reduction
-  Strength reduction is a compiler optimization where expensive operations are replaced with equivalent but less expensive operations.
+	Strength reduction is a compiler optimization where expensive operations are replaced with equivalent but less expensive operations.
 
 Dead Code Elimination
-  Dead code elimination is an optimization to remove instructions which does not affect the results of a program.
+	Dead code elimination is an optimization to remove instructions which does not affect the results of a program.
 
 Static Single Assignment Form
-  In Single Static Assignment (SSA) form, all virtual registers may only have one definition. While not an immediate optimization by itself, it enables other optimization opportunities by simultaneously simplifies and improves the results of the other compiler optimizations.
+	In Single Static Assignment (SSA) form, all virtual registers may only have one definition. While not an immediate optimization by itself, it enables other optimization opportunities by simultaneously simplifies and improves the results of the other compiler optimizations.
 
 Sparse Conditional Constant Propagation
-  Sparse conditional constant propagation is an optimization applied after conversion to static single assignment form (SSA). It simultaneously removes dead code and propagates constants. It can finds more constant values, and thus more opportunities for improvement, than other optimizations.
+	Sparse conditional constant propagation is an optimization applied after conversion to static single assignment form (SSA). It simultaneously removes dead code and propagates constants. It can finds more constant values, and thus more opportunities for improvement, than other optimizations.
 
 Global Value Numbering
-  Global Value numbering is a technique of determining when two computations in a program are equivalent and eliminating one of them with while preserving the same semantics. 
+	Global Value numbering is a technique of determining when two computations in a program are equivalent and eliminating one of them with while preserving the same semantics. 
 
 Inline Expansion
-  Inline Expansion replaces a methods call site with the body of the called method. This improves the performance, because calls can be expensive (storing the registers, placing the arguments onto stack, jumping to another location). 
+	Inline Expansion replaces a methods call site with the body of the called method. This improves the performance, because calls can be expensive (storing the registers, placing the arguments onto stack, jumping to another location). 
 
 Bit Tracker
-  Bit Tracker tracks the known state of bits and value ranges thru the various operations. This may enables other optimizations and shortcuts. 
+	Bit Tracker tracks the known state of bits and value ranges thru the various operations. This may enables other optimizations and shortcuts. 
 
 Block Reordering
-  Basic block reordering organizaze block of instructions to maximize the number of fall-through branches.
+	Basic block reordering organizaze block of instructions to maximize the number of fall-through branches.
 
 Greedy Register Allocation
-  Greedy Register Allocation is a form of register allocation that allocates registers based on live ranges and spill weights. 
+	Greedy Register Allocation is a form of register allocation that allocates registers based on live ranges and spill weights. 
 
 Long Expansion
-  Long expansion is the transformation of 64-bit instructions into 32-bit components for platforms without native 64-bit instructions. This may result in further optimization opportunities.
+	Long expansion is the transformation of 64-bit instructions into 32-bit components for platforms without native 64-bit instructions. This may result in further optimization opportunities.
 
 Two Pass Optimizations
-  This options causes the optimization stages to be executed again, possibility unlocked additional optimizations.
-
+	This options causes the optimization stages to be executed again, possibility unlocked additional optimizations.

diff --git a/Source/Docs/tool-compiler.rst b/Source/Docs/tool-compiler.rst
@@ -8,35 +8,36 @@ The compiler is invoked via Command Line:
 
 .. code-block:: console
 
-  Mosa.Tool.Compiler.exe -o Mosa.HelloWorld.x86.bin Mosa.HelloWorld.x86.exe
+	Mosa.Tool.Compiler.exe -o Mosa.HelloWorld.x86.bin Mosa.HelloWorld.x86.exe
 
 Output:
 
 .. code-block:: console
 
-    X:\MOSA-Project\bin>Mosa.Tool.Compiler.exe -o Mosa.HelloWorld.x86.bin Mosa.HelloWorld.x86.exe
-    MOSA Compiler, Version 2.0.0.0.
-    Copyright 2020 by the MOSA Project. Licensed under the New BSD License.
+	X:\MOSA-Project\bin>Mosa.Tool.Compiler.exe -o Mosa.HelloWorld.x86.bin Mosa.HelloWorld.x86.exe
+	MOSA Compiler, Version 2.0.0.0.
+	Copyright 2020 by the MOSA Project. Licensed under the New BSD License.
 
-    Parsing options...
-     > Output file: Mosa.HelloWorld.x86.bin
-     > Input file(s): Mosa.HelloWorld.x86.exe
-     > Platform: x86
+	Parsing options...
+	 > Output file: Mosa.HelloWorld.x86.bin
+	 > Input file(s): Mosa.HelloWorld.x86.exe
+	 > Platform: x86
 
-    Compiling ...
+	Compiling ...
 
-    0.38 [0] Compile Started
-    0.41 [0] Setup Started
-    0.42 [0] Setup Completed
-    0.42 [0] Compiling Methods
-    2.79 [0] Compiling Methods Completed
-    2.79 [0] Finalization Started
-    2.88 [0] Linking Started
-    2.89 [0] Linking Completed
-    2.92 [0] Finalization Completed
-    2.92 [0] Compile Completed
+	0.38 [0] Compile Started
+	0.41 [0] Setup Started
+	0.42 [0] Setup Completed
+	0.42 [0] Compiling Methods
+	2.79 [0] Compiling Methods Completed
+	2.79 [0] Finalization Started
+	2.88 [0] Linking Started
+	2.89 [0] Linking Completed
+	2.92 [0] Finalization Completed
+	2.92 [0] Compile Completed
 
 Command Line Options
 --------------------
 
-[TODO]
+See the :doc:`command line arguments<command-line-arguments>` for a list of available options. 
+

diff --git a/Source/Docs/compiler-design.rst b/Source/Docs/compiler-design.rst
@@ -19,20 +19,19 @@ The **Method Compiler Pipeline** is used to compile a single method by progressi
 All the stages can be grouped into one or more of these categories:
 
 Decoding Stage
-  Creates an instruction stream for a method from the source representation, such as a method from a .NET application 
+	Creates an instruction stream for a method from the source representation, such as a method from a .NET application 
 
 Transformation Stages
-  Transforms the instruction stream between various representations, usually from a higher level to a lower level representations
+	Transforms the instruction stream between various representations, usually from a higher level to a lower level representations
 
 Optimization Stages
-  Transforms instructions intended to optimize the code to execute faster
+	Transforms instructions intended to optimize the code to execute faster
 
 Register Allocation Stage
-  Allocates the virtual registers in the instruction stream to platform specific physical registers
+	Allocates the virtual registers in the instruction stream to platform specific physical registers
 
 Platform Specific Transformation Stages
-  Transforms the instructions in the stream into specific platform opcodes
-
+	Transforms the instructions in the stream into specific platform opcodes
 
 Intermediate Representations
 ----------------------------

diff --git a/Source/Docs/tool-launcher.rst b/Source/Docs/tool-launcher.rst
@@ -4,6 +4,8 @@ MOSA Launcher
 
 The **MOSA Launcher** is GUI application used to select various compiler and build options. Once options are select, the tool automates the entire build process including launching of a virtual machine.
 
+.. image:: images/mosa-launcher.png
+
 .. tip:: See :doc:`MOSA Launch <tool-launcher-console>` for a console version of this application.
 
 The **MOSA Launcher** can be launched by executing `Mosa.Tool.Launcher.exe`. 
@@ -17,4 +19,9 @@ In addition, the tool can be launched from the command line with arguments:
 Command Line Options
 --------------------
 
-See the :doc:`command line arguments<command-line-arguments>` for a list of available options. Here are the most common options available:
+See the :doc:`command line arguments<command-line-arguments>` for a list of available options.
+
+Here are the most common options available:
+
+`-autostart-off`
+	Does not immediate start the compiler
